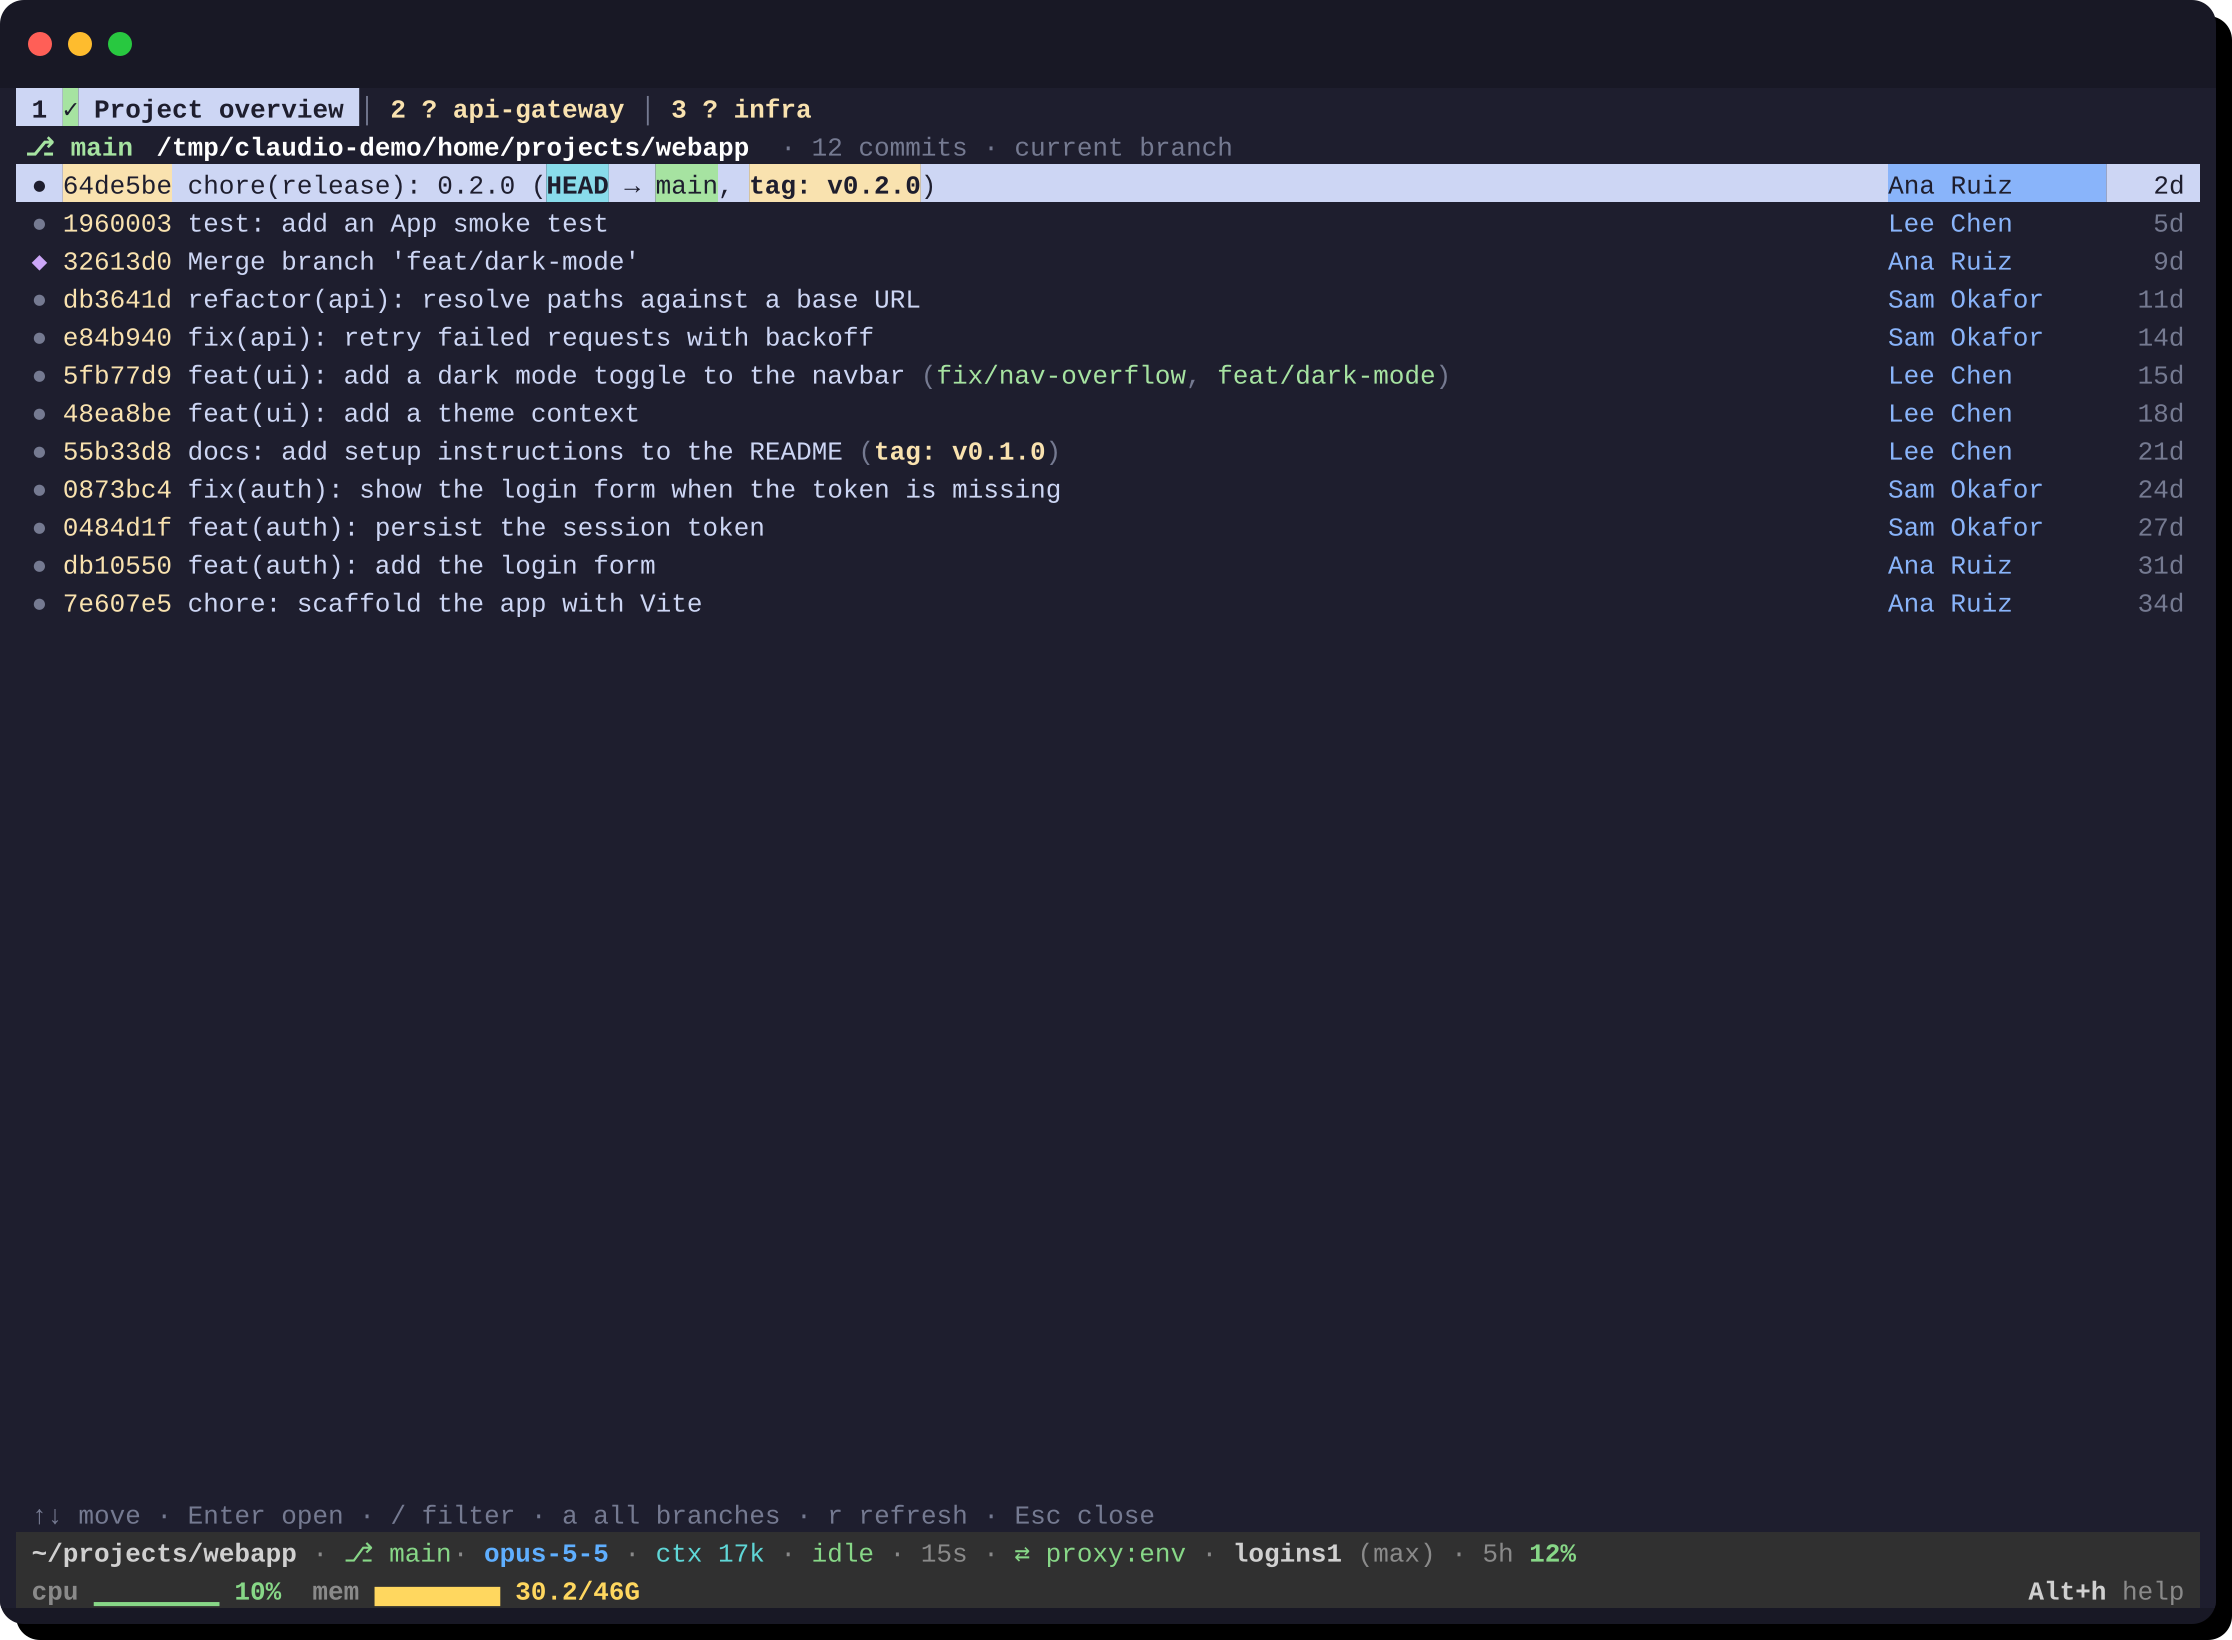
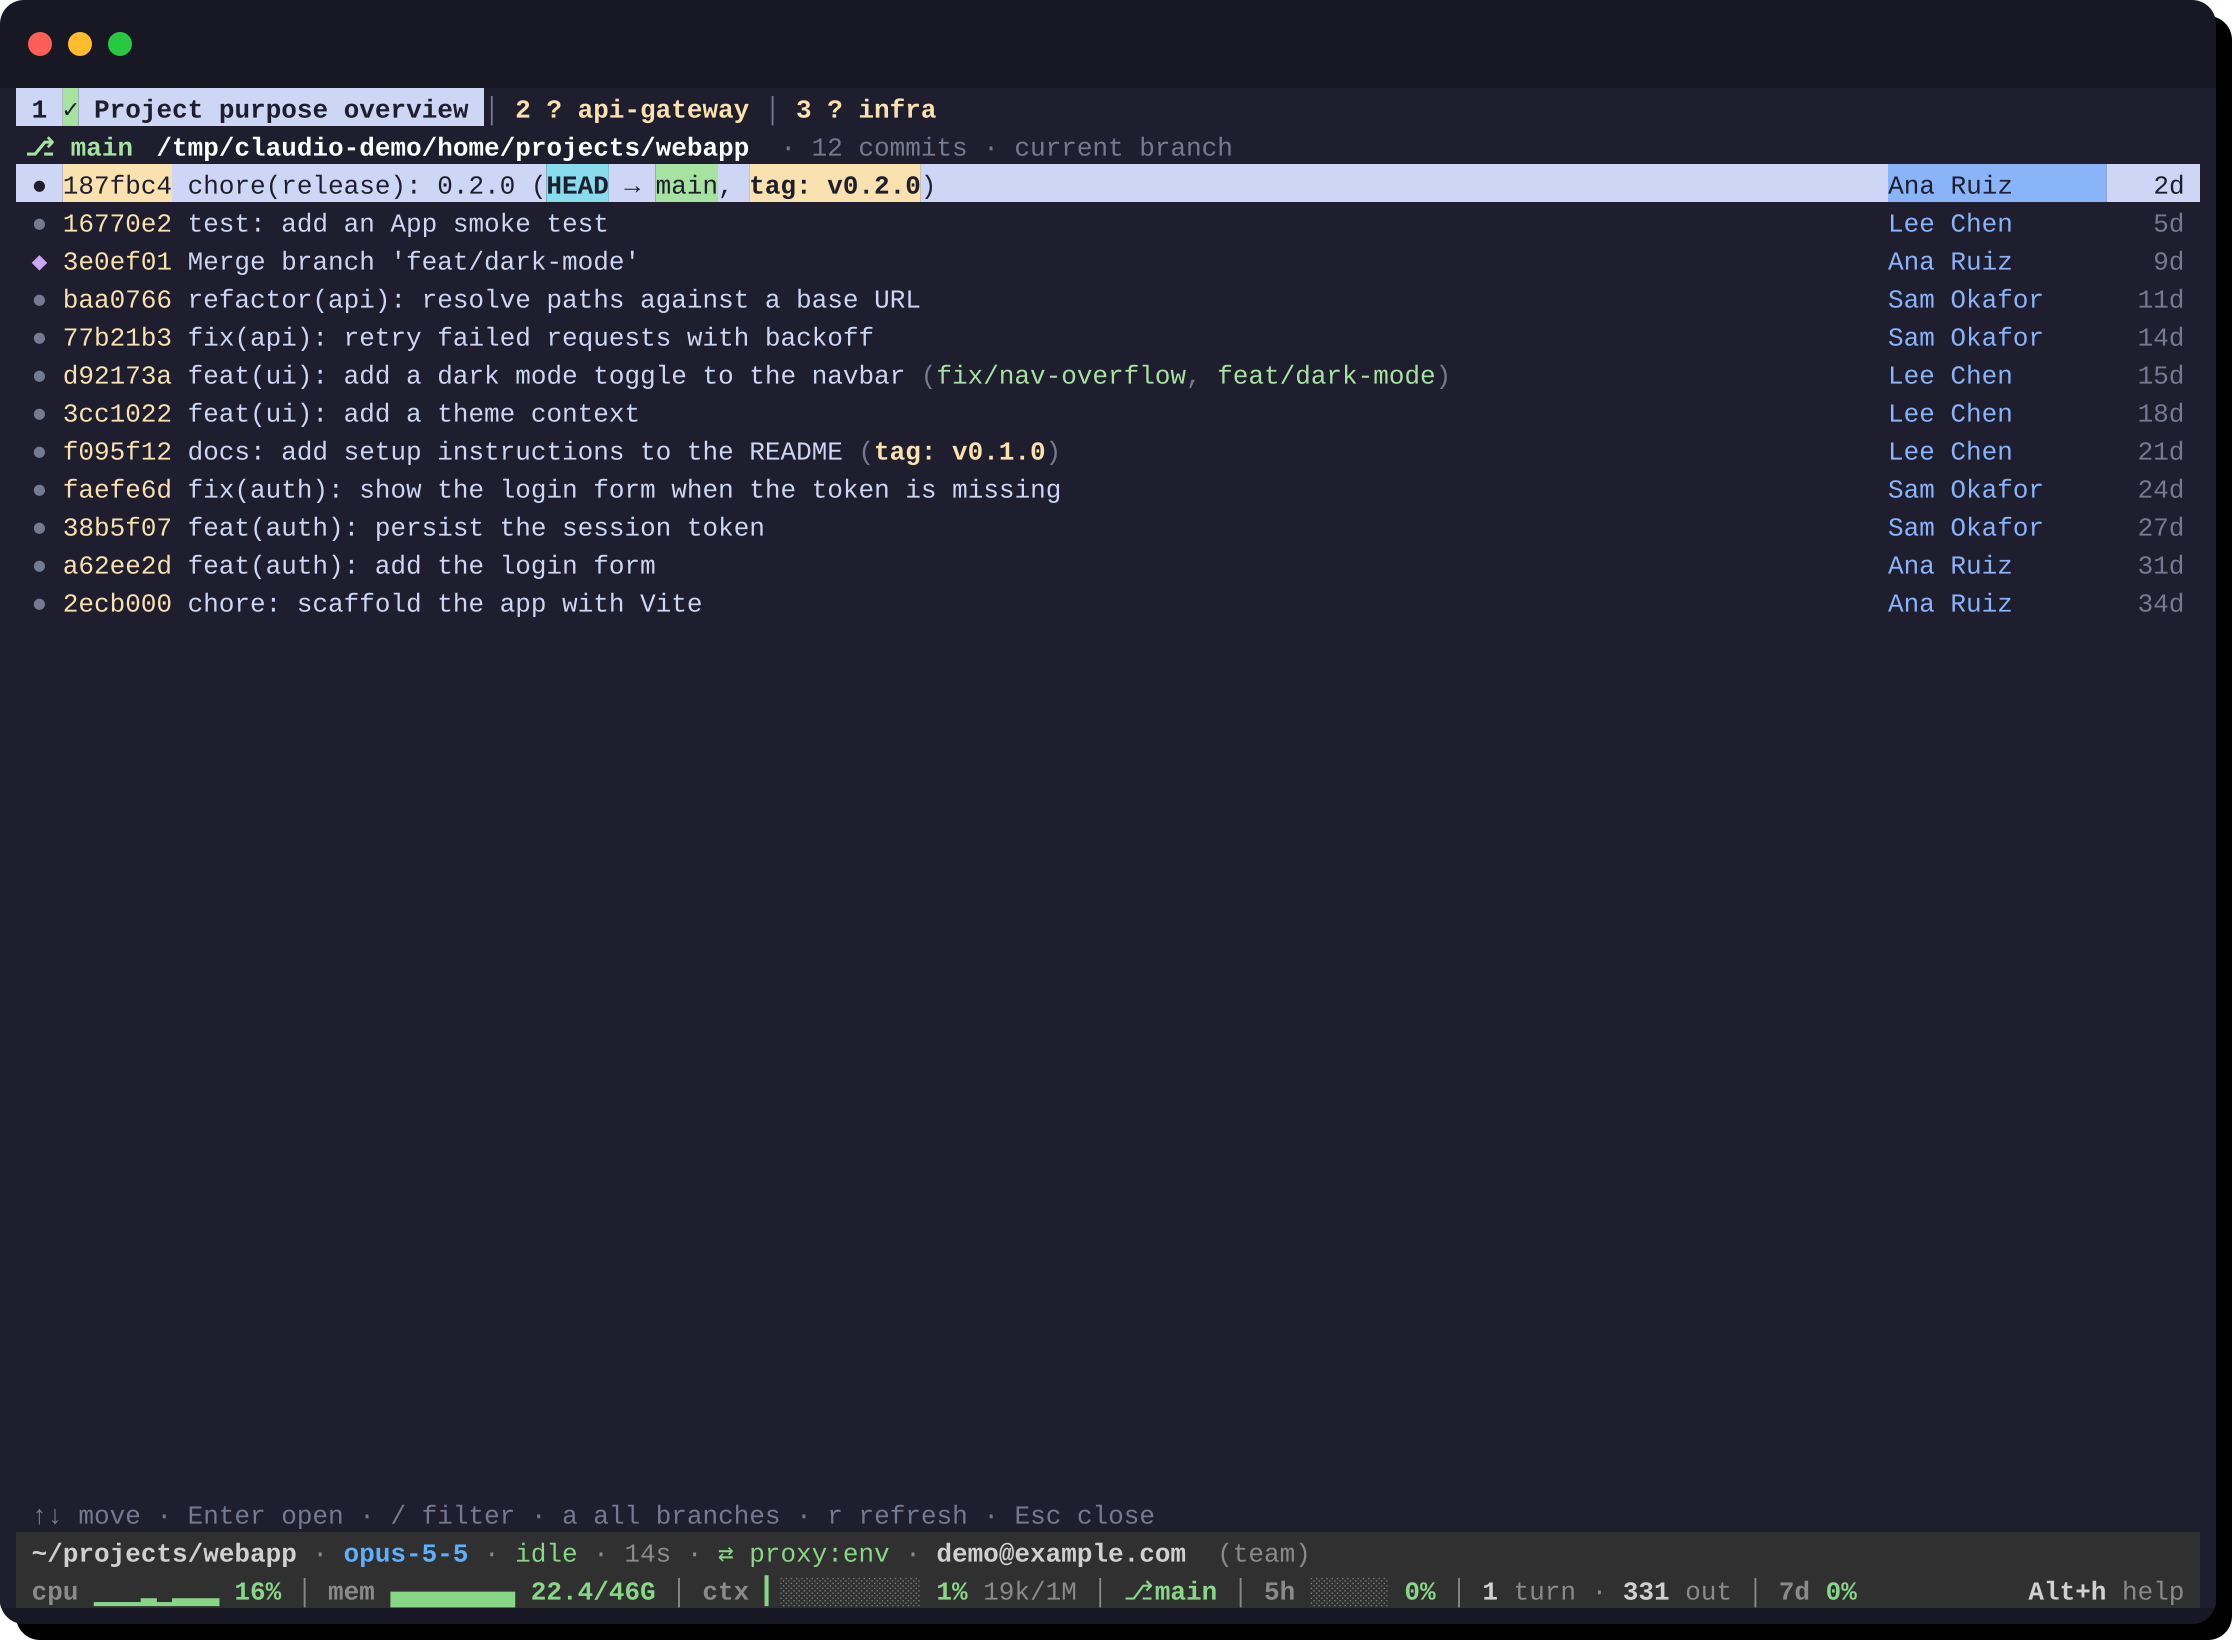
screenshots: capture the line-2 instrument panel
Regenerated with the demo proxy; README caption updated.

diff --git a/README.md b/README.md
@@ -10,7 +10,7 @@ A terminal-native session manager for [Claude Code](https://claude.ai/claude-cod
 
 ![Sessions view: active session, tab states, status bar](docs/screenshots/sessions.png)
 
-*The active session with Claude Code running. The tab bar shows every session with a state glyph; amber and red tabs need attention. The two-line status bar shows the session and its host's CPU and memory.*
+*The active session with Claude Code running. The tab bar shows every session with a state glyph; amber and red tabs need attention. The two-line status bar shows the session, then the host's CPU and memory, the context gauge, the git working tree, the credential's rate-limit windows and the conversation totals.*
 
 ![New-session wizard](docs/screenshots/wizard.png)
 
